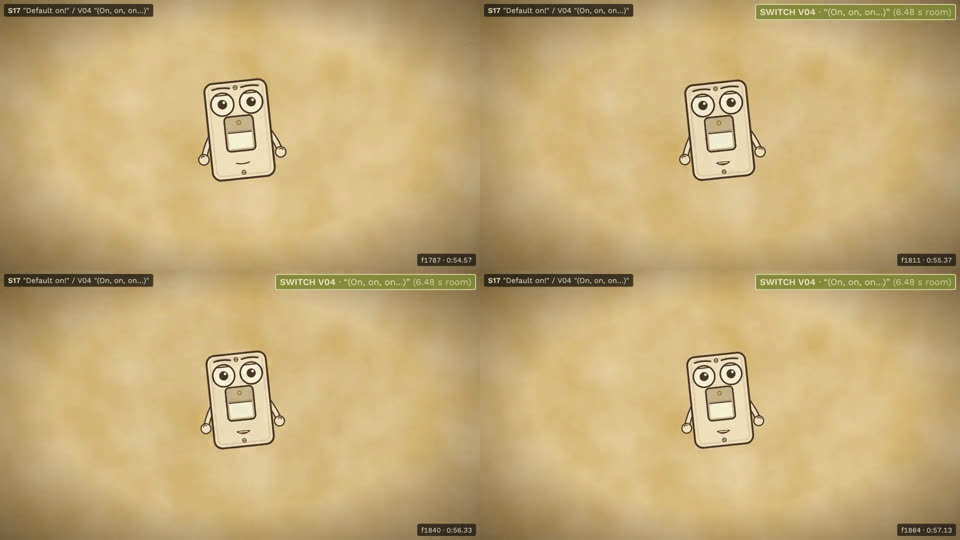
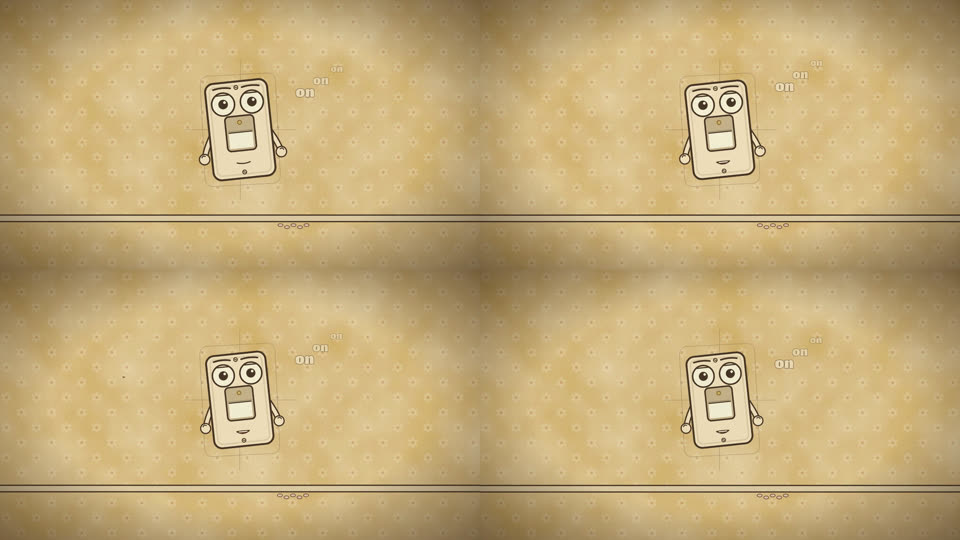
M4 section 4 (chorus 1): sunburst, bedroom set and staged gags, construction lines, notebook margin
Claude-Session: https://claude.ai/code/session_01U1tVYjDQe516Mp7MHbmFPv

diff --git a/remotion/src/shots/Chorus.tsx b/remotion/src/shots/Chorus.tsx
@@ -6,9 +6,9 @@ import { AnswerBox, MiniRocker, Spotlight } from "../components/props";
 import { Hand } from "../rigs/Hand";
 import { Switch } from "../rigs/Switch";
 import { C, H, W } from "../theme/palette";
-import { BUBBLE } from "../theme/fonts";
-import { Bookshelf, Clock, Lamp, Wallpaper, Window, breath } from "../components/sets";
-import { at, line, mouthAt } from "../timing";
+import { BUBBLE, SANS } from "../theme/fonts";
+import { Bookshelf, Clock, Lamp, Plant, Rug, Sunburst, Wallpaper, Window, breath } from "../components/sets";
+import { at, downbeats, line, mouthAt } from "../timing";
 import { S16 as S16Key } from "../scenes/KeyFrames";
 import { Bg, ShotC, blink, bump, ez } from "./common";
 
@@ -117,33 +117,78 @@ export const S12: ShotC = ({ f, g }) => {
   );
 };
 
-// S13: "Default on! Default on!": bright mustard; bubble-letter lyrics with a bouncing ball; rockers flick on in time
-export const S13: ShotC = ({ f, g }) => (
-  <Bg id="s13" seed={13} base={C.mustard}>
-    {[0, 1, 2, 3, 4].map((i) => (
-      <g key={i} transform={`translate(${360 + i * 300}, ${420 - bump(f, 6 + i * 6, 6) * 40})`}><MiniRocker on={f > 6 + i * 6 ? 1 : 0} s={1.4} /></g>
-    ))}
-    <Lyric id="L10" f={f} g={g} y={820} size={110} />
+// S13: "Default on! Default on!": bright mustard over a slowly turning sunburst; bubble-letter lyrics with a bouncing
+// ball; five rockers bounce and flick ON on the downbeats; music notes drift up
+export const S13: ShotC = ({ f, g }) => {
+  const g0 = g - f;
+  const dbs = downbeats.filter((d) => d >= g0).slice(0, 5).map((d) => d - g0);
+  return (
+    <Bg id="s13" seed={13} base={C.mustard}>
+      <g opacity={0.45}><Sunburst a={C.mustard} b={C.orange} spin={g * 0.12} cy={420} /></g>
+      {[0, 1, 2, 3, 4].map((i) => {
+        const at0 = dbs[i] ?? 6 + i * 12;
+        return <g key={i} transform={`translate(${360 + i * 300}, ${440 - bump(f, at0, 5) * 50})`}><MiniRocker on={f > at0 ? 1 : 0} s={1.4} /></g>;
+      })}
+      {[0, 1, 2, 3, 4, 5].map((k) => {
+        const t = ((f + k * 23) % 90) / 90;
+        return <text key={k} x={200 + k * 300 + Math.sin((f + k * 20) / 10) * 30} y={720 - t * 520} fontFamily={SANS} fontSize={70} fill={C.ink} opacity={Math.sin(t * Math.PI) * 0.7}>{k % 2 ? "♪" : "♫"}</text>;
+      })}
+      <Lyric id="L10" f={f} g={g} y={860} size={120} />
+    </Bg>
+  );
+};
+
+// the bedroom (S14, S15, S37): daisy wallpaper, a window (sunrise or moon), a headboard bed with a patchwork quilt
+// and a pillow, a bedside table with an alarm clock, a dresser with three drawers, slippers and a rug; `night` dims it
+const Bedroom_: React.FC<{ id: string; night: boolean; g: number; drawer?: number; children?: React.ReactNode }> = ({ id, night, g, drawer = 0, children }) => (
+  <Bg id={id} seed={14} base={night ? C.night : C.cream}>
+    <Wallpaper id={id} kind="daisy" a={night ? "#3a4a70" : C.mustard} b={night ? "#2c3d63" : C.orange} opacity={night ? 0.35 : 0.3} />
+    <g transform="translate(1620, 280)"><Window w={300} h={320} sky={night ? "#16203a" : "#f2c98a"} sun={night ? "moon" : "sun"} curtain={night ? "#4a3a5a" : C.teal} /></g>
+    <rect x={-20} y={860} width={W + 40} height={240} fill={night ? "#1b2440" : "#b98a5a"} stroke={C.ink} strokeWidth={6} />
+    <g transform="translate(1450, 990)"><Rug w={520} color={night ? "#4a3a5a" : C.avocado} /></g>
+    {/* the dresser, right: three drawers; the top one can slide open */}
+    <g transform="translate(1620, 700)">
+      <rect x={-200} y={-140} width={400} height={300} fill={C.cardigan} stroke={C.ink} strokeWidth={7} />
+      {[0, 1, 2].map((k) => (
+        <g key={k} transform={`translate(${k === 0 ? drawer * 60 : 0}, ${-120 + k * 92})`}>
+          {k === 0 && drawer > 0 && <rect x={-180 - drawer * 60} y={0} width={360 + drawer * 60} height={80} fill={C.cardiganShade} stroke={C.ink} strokeWidth={5} />}
+          <rect x={-180} y={0} width={360} height={80} fill={C.cardiganShade} stroke={C.ink} strokeWidth={5} />
+          <circle cx={0} cy={40} r={10} fill={C.mustard} stroke={C.ink} strokeWidth={3} />
+        </g>
+      ))}
+      <g transform="translate(-110, -190) scale(0.55)"><Plant sway={Math.sin(g / 50)} /></g>
+    </g>
+    {/* the bed, left */}
+    <g transform="translate(640, 720)">
+      <rect x={-560} y={-300} width={70} height={460} rx={14} fill={C.cardigan} stroke={C.ink} strokeWidth={7} />
+      <rect x={-500} y={-40} width={1000} height={170} rx={20} fill={night ? "#3a5a58" : C.teal} stroke={C.ink} strokeWidth={7} />
+      {Array.from({ length: 10 }, (_, i) => <rect key={i} x={-300 + (i % 5) * 160} y={-30 + Math.floor(i / 5) * 76} width={150} height={70} fill={[C.orange, C.mustard, C.avocado, C.cream, C.red][(i * 3) % 5]} opacity={night ? 0.35 : 0.55} />)}
+      <ellipse cx={-330} cy={-50} rx={160} ry={60} fill={C.white} stroke={C.ink} strokeWidth={7} />
+      <rect x={480} y={-100} width={40} height={260} rx={10} fill={C.cardigan} stroke={C.ink} strokeWidth={6} />
+      <g transform="translate(-700, 120)">{[0, 1].map((k) => <ellipse key={k} cx={k * 70} cy={0} rx={34} ry={16} fill={C.red} stroke={C.ink} strokeWidth={4} />)}</g>
+    </g>
+    {/* bedside table and alarm clock (it rings at sunrise) */}
+    <g transform="translate(1260, 760)">
+      <rect x={-60} y={-60} width={140} height={200} fill={C.cardiganShade} stroke={C.ink} strokeWidth={6} />
+      <g transform={`translate(10, -110) rotate(${night ? 0 : Math.sin(g * 1.7) * 6})`}><Clock t={night ? 2 * 3600 + 40 * 60 : 6 * 3600 + 30 * 60} r={44} />
+        {!night && [-1, 1].map((k) => <circle key={k} cx={k * 32} cy={-46} r={14} fill={C.mustard} stroke={C.ink} strokeWidth={4} />)}</g>
+    </g>
+    {night && <rect x={-20} y={-20} width={W + 40} height={H + 40} fill="#0d1222" opacity={0.25} />}
+    {children}
   </Bg>
 );
 
-// S14: "It was there when you woke up…": sunrise over a bed with the answer box on the pillow; then the empty room
+// S14: "It was there when you woke up…": sunrise over the bed, the answer box on the pillow; then the same room at
+// night, the answer box still there, waving
 // at night, the answer box still there, waving
 export const Bedroom: React.FC<{ f: number; g: number; len: number; lineId: string }> = ({ f, g, len, lineId }) => {
   const night = f > len / 2;
   return (
-    <Bg id={night ? "s14n" : "s14"} seed={14} base={night ? C.night : C.paper}>
-      {!night && <Wash id="s14" color={C.orange} opacity={0.7}><circle cx={1540} cy={560} r={200} /></Wash>}
-      {night && <circle cx={1540} cy={260} r={80} fill={C.cream} opacity={0.85} />}
-      <rect x={1300} y={160} width={500} height={420} fill="none" stroke={C.ink} strokeWidth={10} />
-      <g transform="translate(700, 700)">
-        <rect x={-500} y={-40} width={1000} height={200} rx={20} fill={C.teal} stroke={C.ink} strokeWidth={7} />
-        <rect x={-560} y={-200} width={60} height={360} rx={10} fill={C.cardigan} stroke={C.ink} strokeWidth={7} />
-        <ellipse cx={-320} cy={-50} rx={160} ry={60} fill={C.white} stroke={C.ink} strokeWidth={7} />
-        <g transform="translate(-320, -150) scale(0.5)"><AnswerBox mouth={night ? "C" : "X"} wave={night ? Math.sin(f / 4) : 0} /></g>
-      </g>
-      <Lyric id={lineId} f={f} g={g} y={1010} size={64} />
-    </Bg>
+    <Bedroom_ id={night ? "bedn" : "bed"} night={night} g={g}>
+      <g transform="translate(310, 600) scale(0.5)"><AnswerBox mouth={night ? mouthAt(g, "narrator") : "X"} wave={night ? Math.sin(f / 4) : 0} /></g>
+      {!night && <text x={1170} y={580} fontFamily={BUBBLE} fontSize={50} fill={C.ink} transform="rotate(-8, 1170, 580)">BRRING!</text>}
+      <Lyric id={lineId} f={f} g={g} y={1030} size={64} />
+    </Bedroom_>
   );
 };
 export const S14: ShotC = ({ f, g, len }) => <Bedroom f={f} g={g} len={len} lineId="L11" />;
@@ -153,23 +198,47 @@ export const Gags: React.FC<{ f: number; g: number; len: number; lineId: string;
   const beat = Math.min(2, Math.floor((f / len) * 3));
   const t = f - (beat * len) / 3;
   const back = ez(t, len / 3 - 14, len / 3 - 4);
+  const toss = ez(t, 0, 8);
+  // set 1: a blanket thrown over it on the pillow; a mute bar over its mouth; shut in the top drawer, which slides
+  // back open. Set 2 (S37): a sleeping bag zipped over it; the mute bar slides off by itself; a lunchbox that pops open
   return (
-    <Bg id={`gag${set}`} seed={15} base={set === 1 ? C.paper : C.cream}>
-      <g transform="translate(960, 500)">
-        {beat === 0 && (set === 1
-          ? <g><g transform="scale(0.8)"><AnswerBox /></g><path d={`M-300,${-220 + ez(t, 0, 8) * 120} Q0,${-280 + ez(t, 0, 8) * 120} 300,${-220 + ez(t, 0, 8) * 120} L300,${140 - back * 300} Q0,${180 - back * 300} -300,${140 - back * 300} Z`} fill={C.orange} stroke={C.ink} strokeWidth={7} opacity={1 - back} /></g>
-          : <g><path d="M-420,120 Q-420,-120 0,-120 Q420,-120 420,120 Z" fill={C.teal} stroke={C.ink} strokeWidth={8} /><g transform={`translate(0, ${-110 - back * 40}) scale(0.5)`}><AnswerBox mouth={back > 0.5 ? "C" : "X"} /></g></g>)}
-        {beat === 1 && (
-          <g><g transform="scale(0.8)"><AnswerBox mouth="X" /></g>
-            <rect x={-60 + (set === 2 ? ez(t, 6, 20) * 500 : 0)} y={-14} width={300} height={60} rx={14} fill={C.ink} transform="translate(120, -40)" />
-            <text x={270 + (set === 2 ? ez(t, 6, 20) * 500 : 0)} y={0} textAnchor="middle" fontFamily="'Titan One'" fontSize={34} fill={C.cream}>MUTED</text></g>
-        )}
-        {beat === 2 && (set === 1
-          ? <g><rect x={-360} y={-60} width={720} height={260} fill={C.cardigan} stroke={C.ink} strokeWidth={8} /><rect x={-340} y={-40} width={680} height={200} fill={C.cardiganShade} stroke={C.ink} strokeWidth={6} /><g transform={`translate(0, ${-60 - back * 140}) scale(0.6)`} opacity={back}><AnswerBox mouth="D" /></g><rect x={-60} y={60} width={120} height={20} rx={8} fill={C.creamShade} stroke={C.ink} strokeWidth={4} /></g>
-          : <g><rect x={-320} y={-180} width={640} height={360} rx={30} fill={C.red} stroke={C.ink} strokeWidth={8} /><rect x={-80} y={-240} width={160} height={70} rx={30} fill="none" stroke={C.ink} strokeWidth={14} /><g transform={`translate(0, ${-back * 260}) scale(0.7)`}><AnswerBox /></g></g>)}
-      </g>
-      <Lyric id={lineId} f={f} g={g} y={1010} size={64} />
-    </Bg>
+    <Bedroom_ id={`gag${set}`} night={set === 2} g={g} drawer={set === 1 && beat === 2 ? back : 0}>
+      {beat === 0 && (set === 1 ? (
+        <g transform="translate(310, 600)">
+          <g transform="scale(0.5)"><AnswerBox mouth={back > 0.5 ? "D" : "X"} /></g>
+          <path d={`M-200,${-170 + toss * 120 - back * 160} Q0,${-230 + toss * 120 - back * 160} 200,${-170 + toss * 120 - back * 160} L210,${60 - back * 200} Q0,${90 - back * 200} -210,${60 - back * 200} Z`}
+            fill={C.orange} stroke={C.ink} strokeWidth={6} opacity={1 - back * 0.9} />
+        </g>
+      ) : (
+        <g transform="translate(900, 900)">
+          <path d="M-320,0 Q-330,-130 -200,-140 L260,-140 Q330,-120 320,0 Z" fill={C.avocado} stroke={C.ink} strokeWidth={7} />
+          <line x1={-200} y1={-140} x2={-200 + (1 - back) * 460} y2={-140} stroke={C.mustard} strokeWidth={8} />
+          <g transform={`translate(-230, ${-150 - back * 70}) scale(0.4)`}><AnswerBox mouth={back > 0.5 ? "C" : "X"} /></g>
+        </g>
+      ))}
+      {beat === 1 && (
+        <g transform="translate(310, 600)">
+          <g transform="scale(0.5)"><AnswerBox mouth="X" /></g>
+          <g transform={`translate(${set === 2 ? ez(t, 8, 22) * 420 : 0}, ${set === 2 ? ez(t, 8, 22) * 260 : 0}) rotate(${set === 2 ? ez(t, 8, 22) * 40 : 0})`}>
+            <rect x={60} y={-56} width={190} height={46} rx={12} fill={C.ink} />
+            <text x={155} y={-24} textAnchor="middle" fontFamily={BUBBLE} fontSize={30} fill={C.cream}>MUTED</text>
+          </g>
+        </g>
+      )}
+      {beat === 2 && (set === 1 ? (
+        <g transform={`translate(${1620 + back * 60}, ${560 - back * 110}) scale(0.4)`} opacity={toss > 0.5 && back < 0.1 ? 0 : 1}>
+          <AnswerBox mouth={back > 0.5 ? "D" : "X"} wave={back > 0.5 ? Math.sin(f / 3) : 0} />
+        </g>
+      ) : (
+        <g transform="translate(1260, 640)">
+          <rect x={-80} y={-60} width={180} height={110} rx={14} fill={C.red} stroke={C.ink} strokeWidth={6} />
+          <path d="M-30,-60 q40,-50 80,0" fill="none" stroke={C.ink} strokeWidth={8} />
+          <g transform={`rotate(${-back * 60}, -80, -60)`}><rect x={-80} y={-74} width={180} height={18} rx={6} fill={C.orange} stroke={C.ink} strokeWidth={5} /></g>
+          {back > 0.4 && <g transform={`translate(10, ${-80 - back * 40}) scale(0.3)`}><AnswerBox mouth="C" /></g>}
+        </g>
+      ))}
+      <Lyric id={lineId} f={f} g={g} y={1030} size={64} />
+    </Bedroom_>
   );
 };
 export const S15: ShotC = ({ f, g, len }) => <Gags f={f} g={g} len={len} lineId="L12" set={1} />;
@@ -179,25 +248,47 @@ export const S16: ShotC = ({ f }) => <S16Key f={f} />;
 // S17 / S39: "Default on!" / V04 / V11 "(On, on, on…)": Switch, redrawn slightly crooked, echoes quietly
 const Echo: React.FC<{ f: number; g: number; tired?: boolean }> = ({ f, g, tired }) => (
   <Bg id="echo" seed={17} base={C.mustard}>
-    <g transform={`translate(${W / 2}, 520) scale(${1 - f * 0.0008})`}>
+    <Wallpaper id="echo" kind="daisy" a={C.cream} b={C.orange} opacity={0.3} />
+    {/* the redrawing shows: faint pencil construction lines, a centre cross, eraser crumbs on the skirting */}
+    <g stroke={C.inkSoft} strokeWidth={2} fill="none" opacity={0.45}>
+      <rect x={W / 2 - 150} y={300} width={300} height={440} rx={30} transform={`rotate(${tired ? -5 : -3}, ${W / 2}, 520)`} />
+      <line x1={W / 2} y1={240} x2={W / 2} y2={800} /><line x1={W / 2 - 220} y1={520} x2={W / 2 + 220} y2={520} />
+      <circle cx={W / 2 - 58} cy={412} r={56} /><circle cx={W / 2 + 58} cy={412} r={56} />
+    </g>
+    {[0, 1, 2, 3, 4].map((k) => <ellipse key={k} cx={W / 2 + 160 + k * 26} cy={900 + (k % 2) * 8} rx={10} ry={6} fill="#e8b0a0" stroke={C.ink} strokeWidth={2} />)}
+    <rect x={-10} y={860} width={W + 20} height={26} fill={C.creamShade} stroke={C.ink} strokeWidth={5} />
+    <g transform={`translate(${W / 2}, 520) scale(${1 - f * 0.0008}, ${(1 - f * 0.0008) * breath(g, 5)})`}>
       <Switch pose={tired ? "sad" : "neutral"} tilt={tired ? -9 : -6} mouth={mouthAt(g, "switch")} blink={tired ? 0.4 : blink(g)} />
     </g>
+    {[0, 1, 2].map((k) => <text key={k} x={W / 2 + 220 + k * 70} y={400 - k * 50 - (f % 40)} fontFamily={BUBBLE} fontSize={56 - k * 10} fill={C.cream} stroke={C.ink} strokeWidth={3} paintOrder="stroke" opacity={0.85 - k * 0.2}>on</text>)}
   </Bg>
 );
 export const S17: ShotC = ({ f, g }) => <Echo f={f} g={g} />;
 export const S39: ShotC = ({ f, g }) => <Echo f={f} g={g} tired />;
 
 // S18: the flute and scat fill: the grey hand doodles little ON switches in a margin, in time with the fill
-export const S18: ShotC = ({ f }) => {
-  const n = Math.floor(f / 14);
+export const S18: ShotC = ({ f, g }) => {
+  const n = Math.min(Math.floor(f / 14), 10);
+  const k = Math.max(0, n - 1);
+  const px = 160 + (k % 2) * 140, py = 190 + Math.floor(k / 2) * 170;
+  const scrib = Math.sin(f * 1.3) * 10;
   return (
     <Bg id="s18" seed={18}>
+      {Array.from({ length: 13 }, (_, i) => <line key={i} x1={0} y1={110 + i * 76} x2={W} y2={110 + i * 76} stroke={C.teal} strokeWidth={2} opacity={0.35} />)}
       <line x1={420} y1={0} x2={420} y2={H} stroke={C.red} strokeWidth={4} opacity={0.6} />
-      {Array.from({ length: 12 }, (_, i) => <line key={i} x1={0} y1={140 + i * 80} x2={W} y2={140 + i * 80} stroke={C.teal} strokeWidth={2} opacity={0.3} />)}
-      {Array.from({ length: Math.min(n, 8) }, (_, i) => (
-        <g key={i} transform={`translate(${160 + (i % 2) * 140}, ${190 + Math.floor(i / 2) * 190}) rotate(${(i % 3) - 1 * 4})`}><MiniRocker on={1} s={0.9} /></g>
+      {[200, 540, 880].map((y) => <circle key={y} cx={60} cy={y} r={22} fill={C.paper} stroke={C.inkSoft} strokeWidth={3} />)}
+      <circle cx={1500} cy={760} r={130} fill="none" stroke={C.cardigan} strokeWidth={14} opacity={0.25} />
+      <text x={520} y={260} fontFamily={SANS} fontSize={44} fill={C.inkSoft} opacity={0.7}>opt-in · opt-out · default</text>
+      <path d="M520,320 q80,-30 160,0 t160,0" fill="none" stroke={C.inkSoft} strokeWidth={4} opacity={0.6} />
+      {Array.from({ length: n }, (_, i) => (
+        <g key={i} transform={`translate(${160 + (i % 2) * 140}, ${190 + Math.floor(i / 2) * 170}) rotate(${((i * 37) % 9) - 4})`}><MiniRocker on={1} s={0.9} /></g>
       ))}
-      <g transform={`translate(${-40}, ${260 + Math.floor(Math.min(n, 8) / 2) * 190}) rotate(-8)`}><Hand reach={0.7} length={700} curl={0.2} /></g>
+      {[[700, 520], [1100, 420], [900, 700]].map(([x, y], i) => i < n / 3 && <path key={i} d={`M${x},${y} l10,24 l26,4 l-20,16 l6,26 l-22,-14 l-22,14 l6,-26 l-20,-16 l26,-4 Z`} fill="none" stroke={C.inkSoft} strokeWidth={3} opacity={0.7} />)}
+      {/* the hand, with a pencil, scribbling the latest switch */}
+      <g transform={`translate(${px - 520 + scrib}, ${py + 360}) rotate(-35)`}>
+        <Hand reach={1} length={640} curl={0.5} />
+        <g transform="translate(560, -40) rotate(-50)"><rect x={0} y={-10} width={160} height={20} fill={C.mustard} stroke={C.ink} strokeWidth={4} /><path d="M0,-10 L-30,0 L0,10 Z" fill={C.cream} stroke={C.ink} strokeWidth={3} /></g>
+      </g>
     </Bg>
   );
 };

diff --git a/remotion/src/scenes/KeyFrames.tsx b/remotion/src/scenes/KeyFrames.tsx
@@ -11,6 +11,7 @@ import { BUBBLE, SANS } from "../theme/fonts";
 import { C, H, W } from "../theme/palette";
 import { FPS, at, line, shot } from "../timing";
 import { MouthShape } from "../rigs/Mouth";
+import { Wallpaper } from "../components/sets";
 
 type Scene = React.FC<{ f: number }>;
 
@@ -59,6 +60,8 @@ export const S16: Scene = ({ f }) => {
   return (
     <AbsoluteFill>
       <Paper id="s16" seed={16} base={C.mustard}>
+        <Wallpaper id="s16" kind="daisy" a={C.cream} b={C.orange} opacity={0.3} />
+        <rect x={-10} y={860} width={W + 20} height={26} fill={C.creamShade} stroke={C.ink} strokeWidth={5} />
         {/* the redrawn Switch on the wall, half finished in pencil */}
         <g transform={`translate(${cx + 470}, ${cy})`} opacity={0.9}>
           <rect x={-PLATE.w / 2} y={-PLATE.h / 2} width={PLATE.w} height={PLATE.h} rx={34} fill="none" stroke={C.inkSoft}

diff --git a/log/production_log.md b/log/production_log.md
@@ -133,3 +133,9 @@ Append-only. One entry per action: timestamp, step (shot ID where relevant), wha
 - **Agent review:** the first render's sleeve pointed at his eyes, not his paddle, and the furniture competed with him; both fixed before this render.
 - **Command:** `scripts/m4_section.sh Sec03-Prechorus1 sec03_prechorus1`
 - **Outputs:** `renders/m4/sec03_prechorus1.mp4`, review copy, `review/S09–S12.jpg`
+
+## 2026-11-06T12:10:00-05:00 — M4 detail pass: section 4, chorus 1 (S13–S18)
+
+- **What:** S13 over a turning sunburst; the five rockers bounce and flick ON on the downbeats; music notes drift up. A bedroom set for S14–S15 (and S37): daisy wallpaper, a curtained window (sunrise or moon), a headboard bed with a patchwork quilt and pillow, a bedside table with an alarm clock that rings at sunrise ("BRRING!"), a dresser with three drawers and a plant, slippers, a rug; night dims it. The gags are now staged in that room: a blanket thrown over the pillow; the mute bar; the top drawer that shuts on the answer box and slides back open (chorus 2: a zipped sleeping bag, the mute bar sliding off by itself, a lunchbox that pops open). S16 gains the wallpaper and skirting. S17's crooked redraw shows its pencil construction lines and eraser crumbs, with "on, on, on" drifting up. S18 is a ruled notebook page (binder holes, a red margin, a coffee ring, a star and notes) with the hand drawing each rocker with a pencil.
+- **Agent review:** stills caught the bed's headboard colliding with the bedside table and S18's hand off-frame; fixed before the render.
+- **Command:** `scripts/m4_section.sh Sec04-Chorus1 sec04_chorus1`

diff --git a/log/renders.md b/log/renders.md
@@ -49,3 +49,7 @@ Every render: timestamp, shot ID, composition, props, commit hash, output, conta
 ## 2026-11-06T11:44 — M4 section 3, pre-chorus 1
 
 - **Shots:** S09–S12. **Composition:** `Sec03-Prechorus1`, 217 frames. **Command:** `scripts/m4_section.sh Sec03-Prechorus1 sec03_prechorus1`. **Commit:** built on d2223a5 + this entry's changes.
+
+## 2026-11-06T12:08 — M4 section 4, chorus 1
+
+- **Shots:** S13–S18. **Composition:** `Sec04-Chorus1`, 602 frames. **Command:** `scripts/m4_section.sh Sec04-Chorus1 sec04_chorus1`. **Commit:** built on 2159b8a + this entry's changes.
